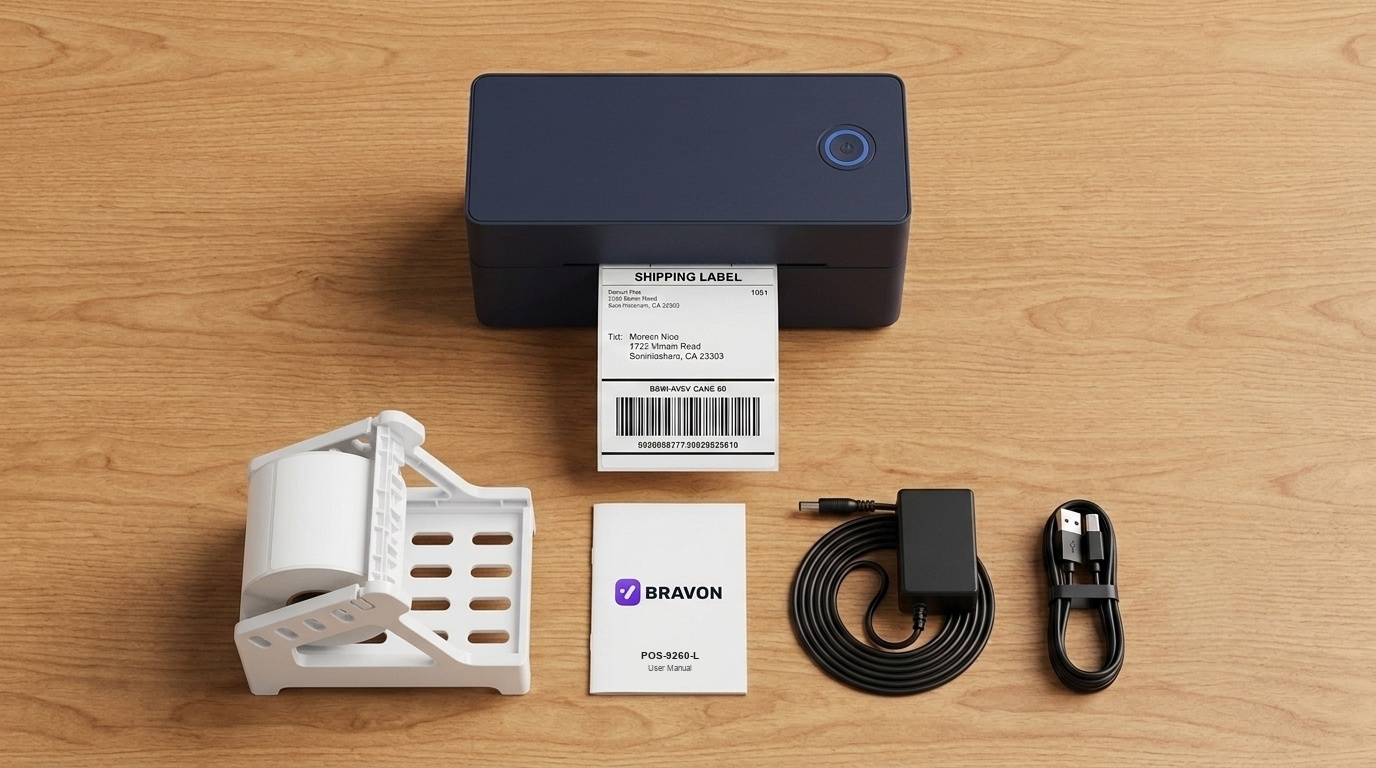
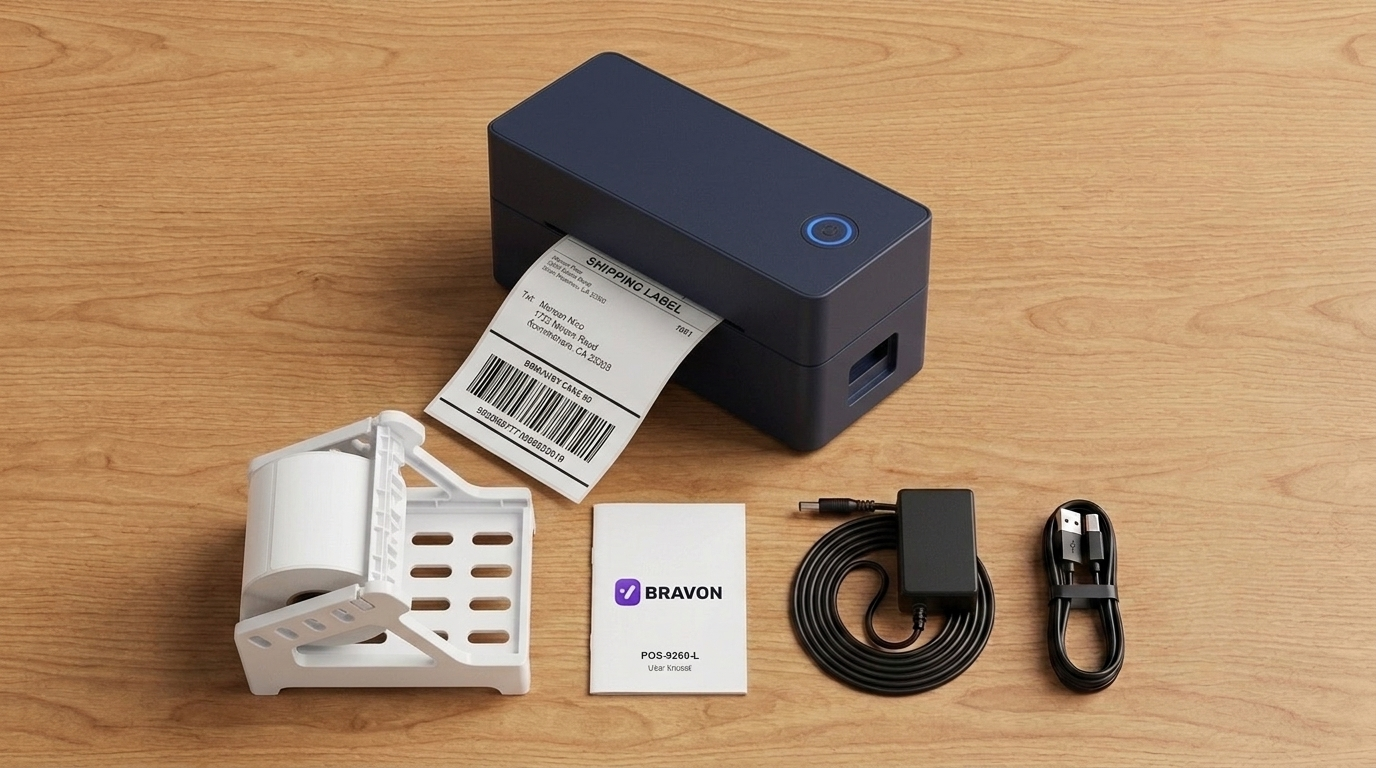
fix(imagery): update Section 8 in-the-box photo with 3/4 side latch and tabletop resting label

Changed region(s): [[0.25, 0.0625, 0.6875, 0.6562], [0.4688, 0.8438, 0.5, 0.875]]

diff --git a/src/lib/siteConfig.ts b/src/lib/siteConfig.ts
@@ -153,7 +153,7 @@ export const DEFAULT_SITE_CONFIG: SiteConfig = {
   heroImageDark: "/bravon-ecosystem-dark.jpg",
   productImageWhite: "/exact-printer-white.png",
   productImageDark: "/exact-printer-dark.png",
-  productImageInBox: "/bravon-in-the-box-v3.jpg",
+  productImageInBox: "/bravon-in-the-box-v4.jpg",
   productImageAction: "/bravon-shipping-action-v3.jpg",
   frontFeedImageWhite: "/bravon-hero-studio-white-v2.jpg",
   frontFeedImageDark: "/bravon-hero-studio-dark.jpg",

diff --git a/src/app/page.tsx b/src/app/page.tsx
@@ -986,7 +986,7 @@ export default function HomePage() {
             }}
           >
             <Image
-              src={config.productImageInBox || "/bravon-in-the-box-v3.jpg"}
+              src={config.productImageInBox || "/bravon-in-the-box-v4.jpg"}
               alt={`${config.productName || "Bravon POS-9260-L"} Thermal Printer What's In The Box`}
               fill
               style={{ objectFit: "cover" }}
